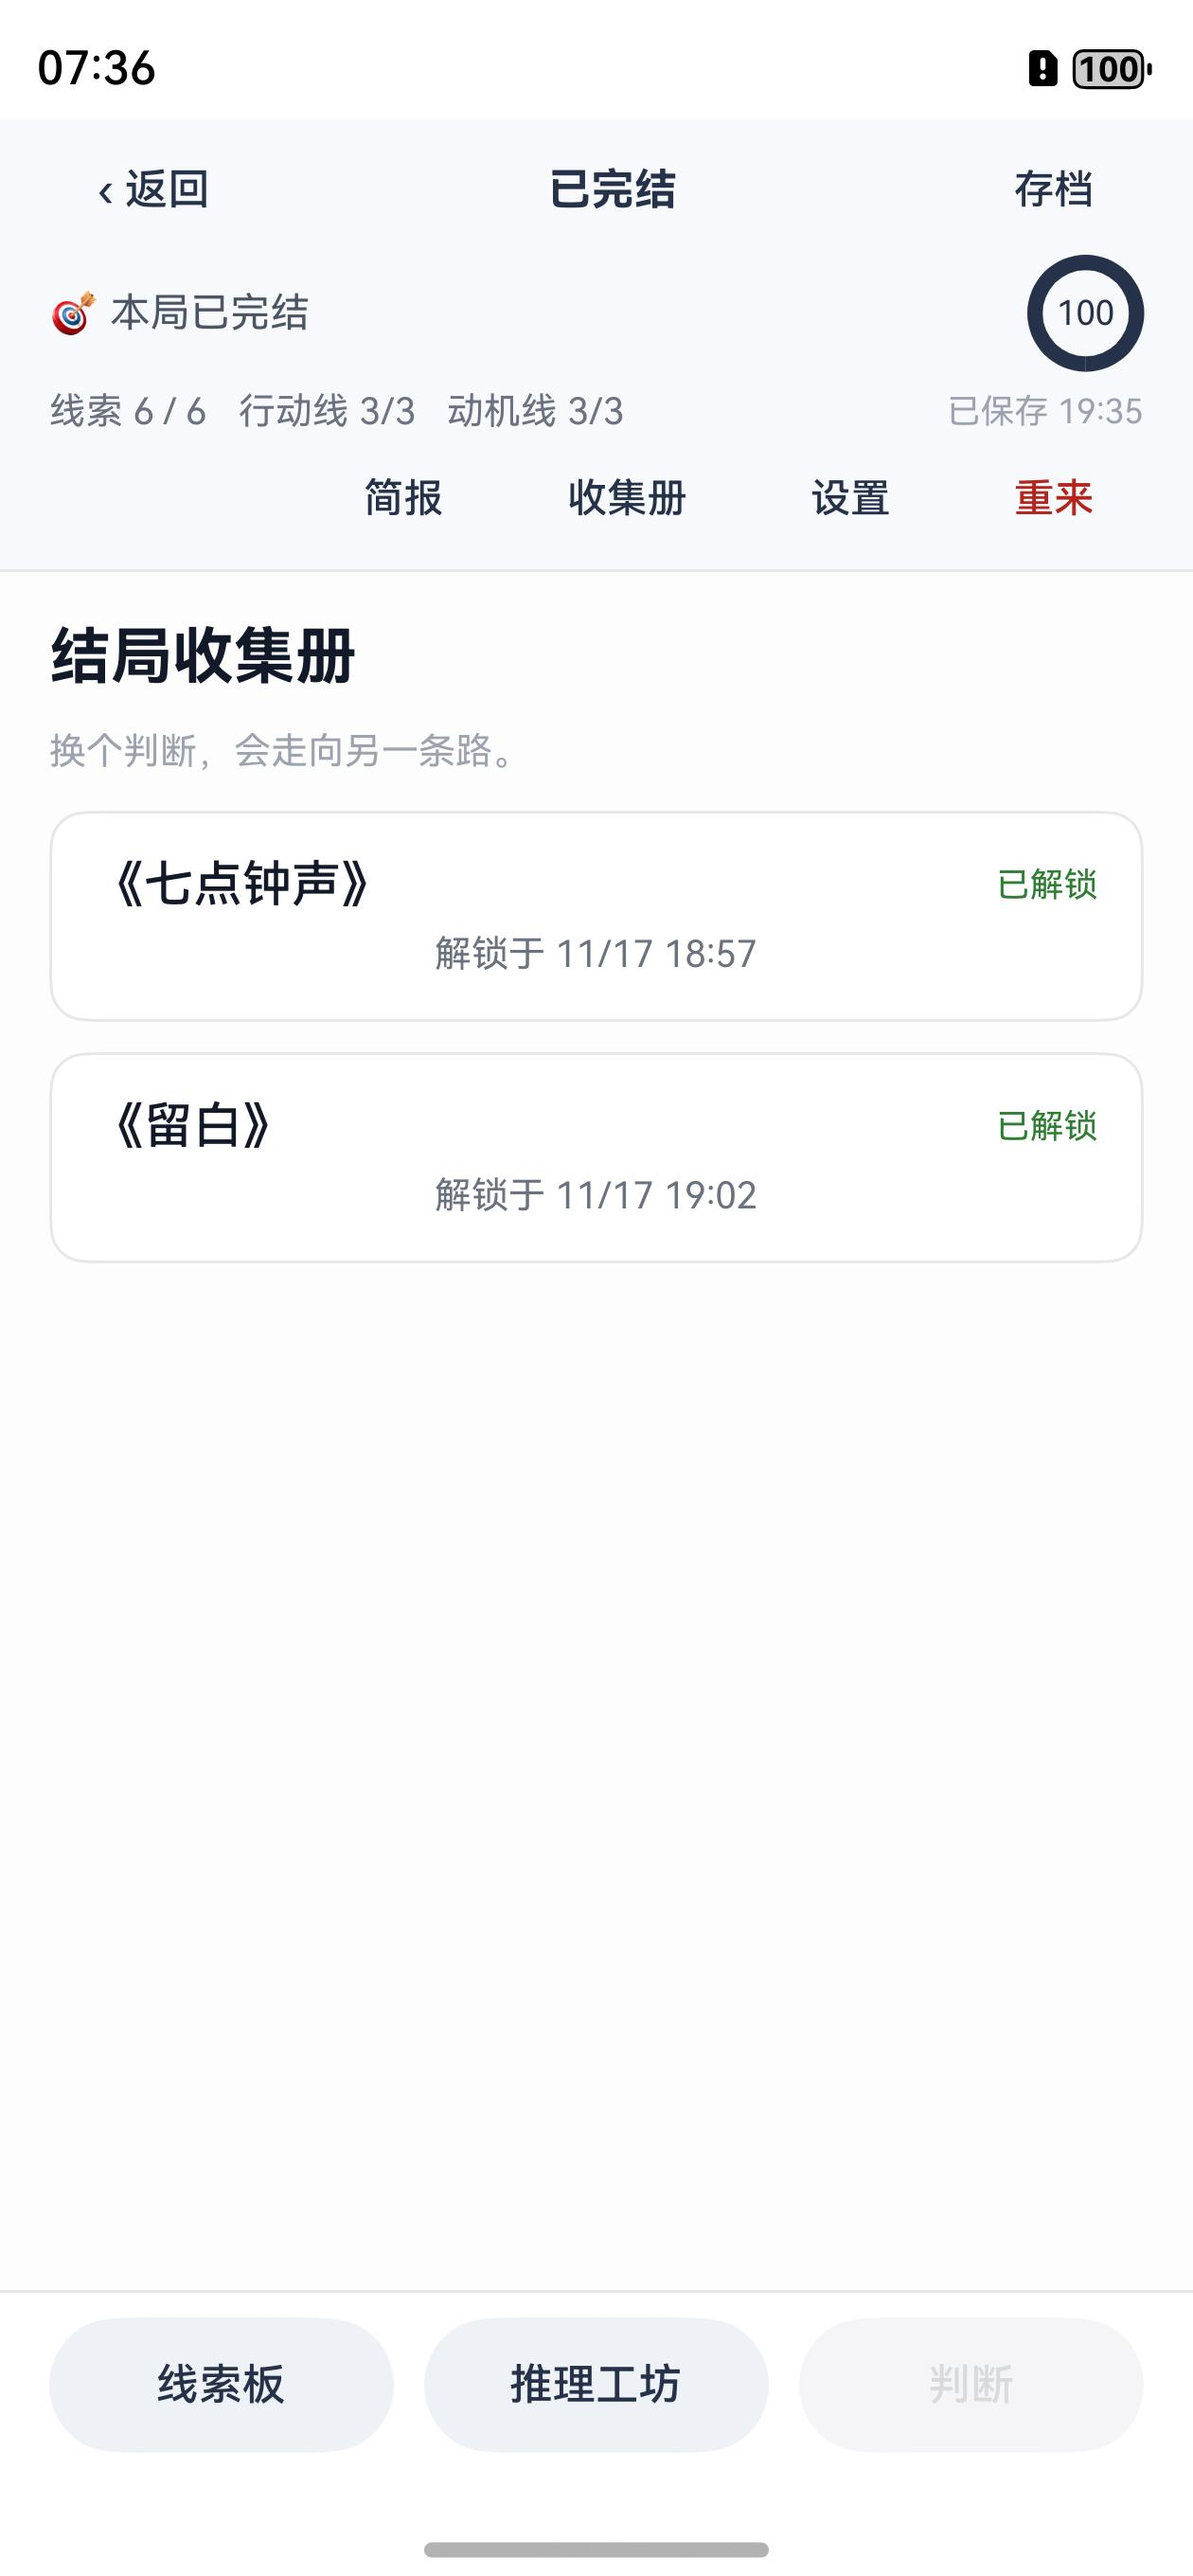
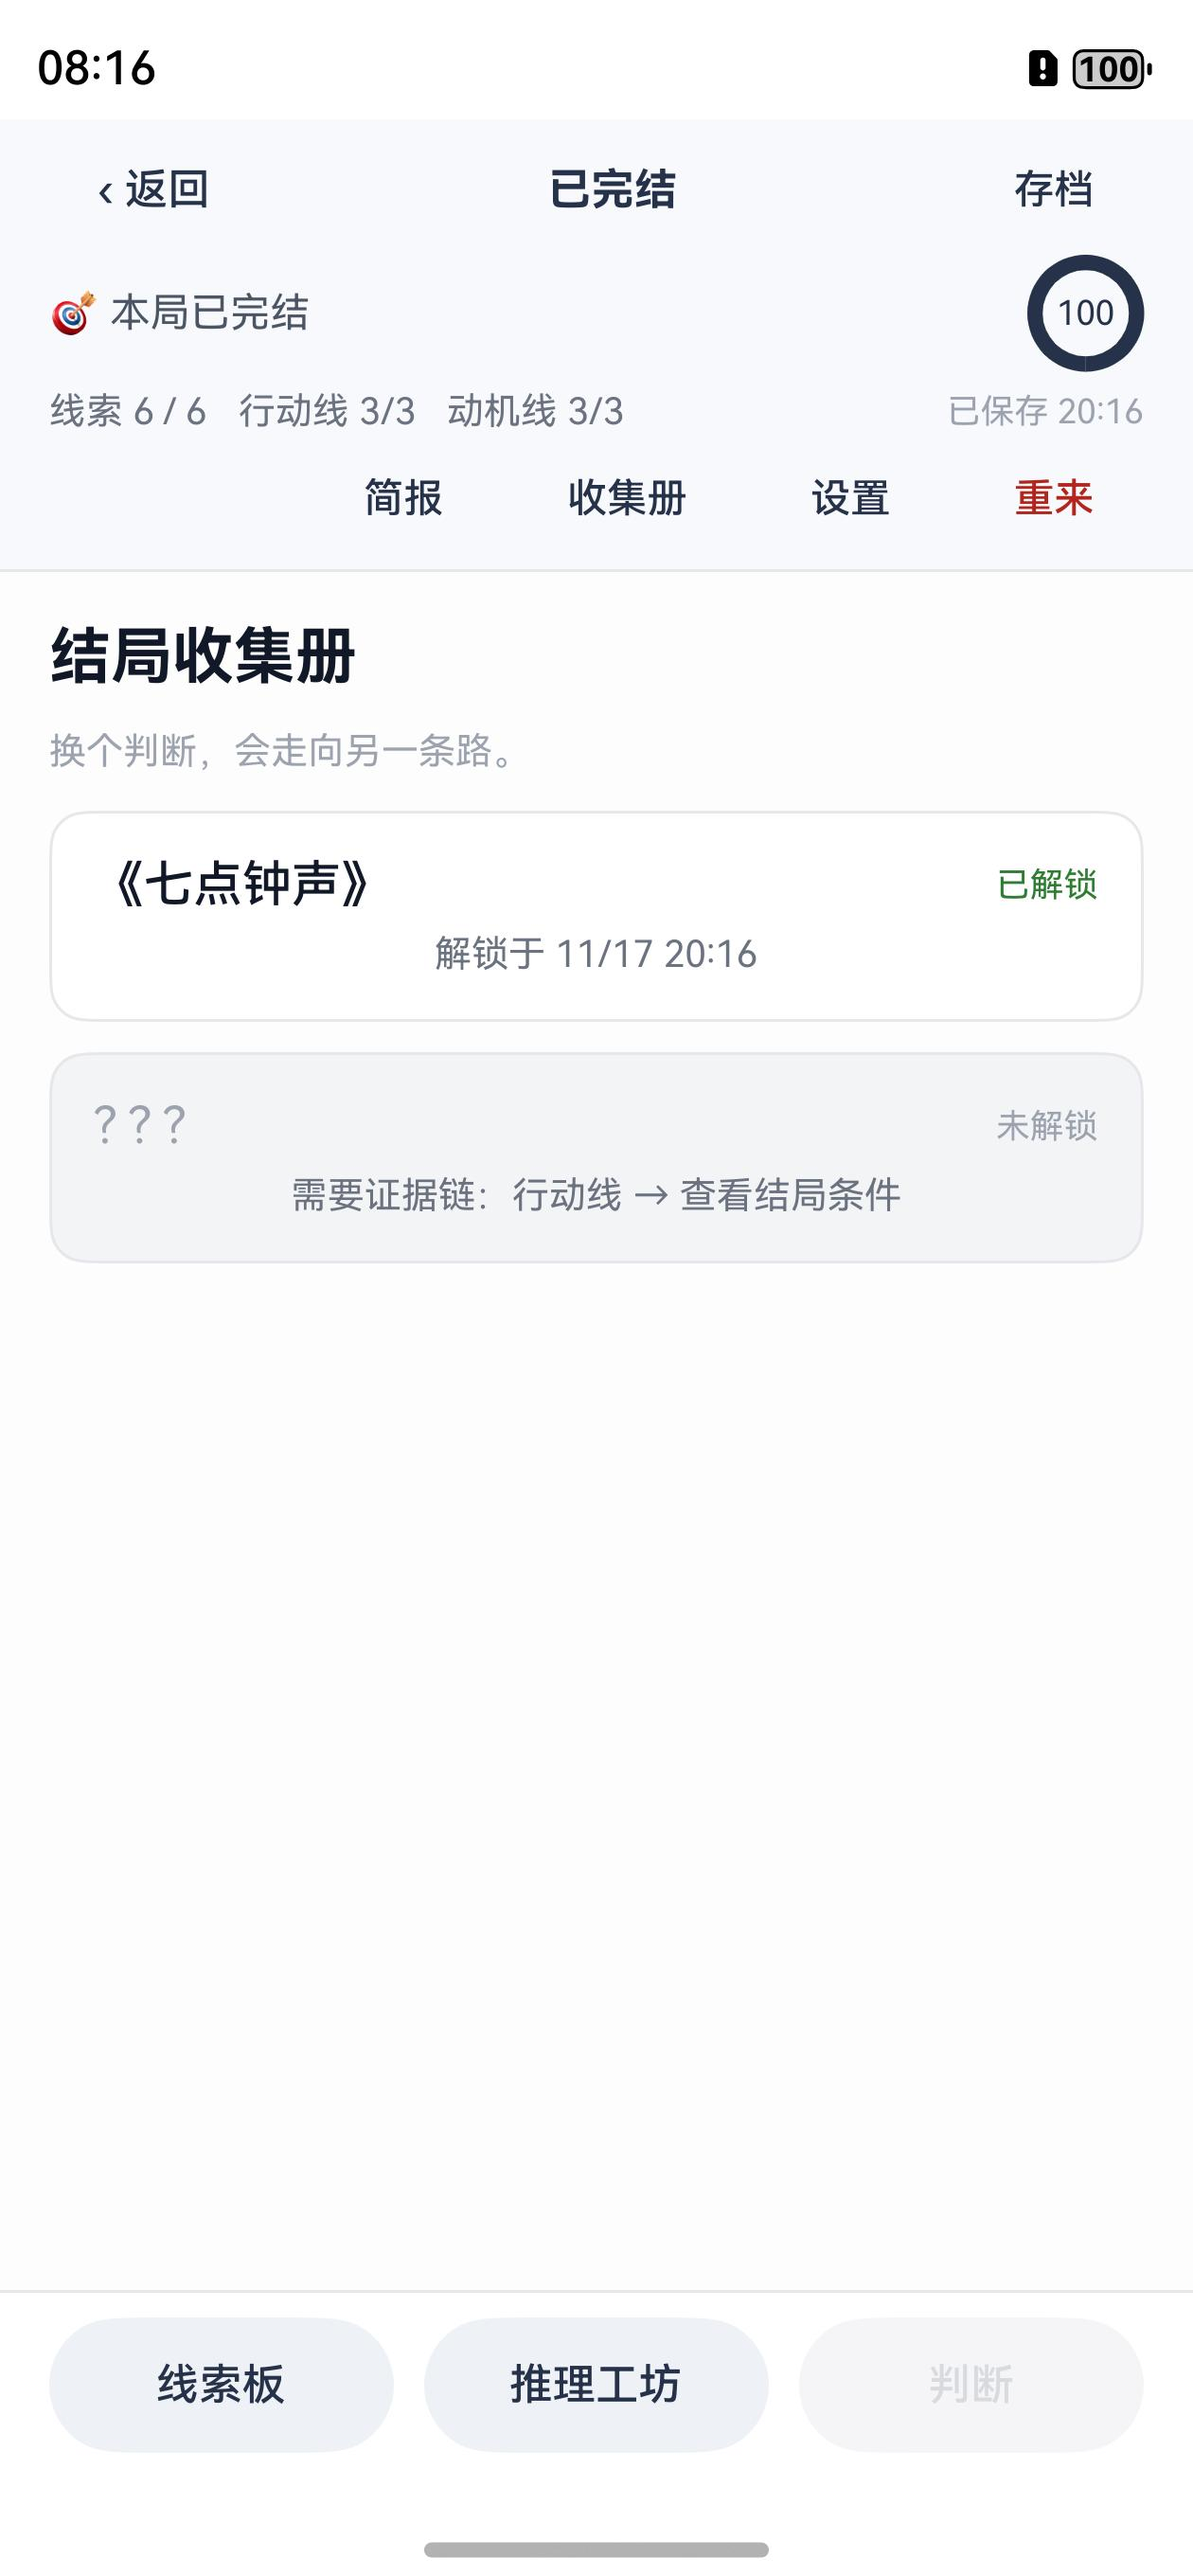
fix(harmony): Hypium 22 个用例真跑通（TestAbility 宿主 + describe 命名 + runner 取 delegator 时机）
- 根因1: describe 名只能 字母/数字/下划线/点 且首字符为字母，Fixtures(AC-18) 被判非法 -> Fixtures.AC18
- 根因2: Hypium 报告链路 delegator.print() 需要已启动的 UIAbility 作宿主，否则 Promise 不 resolve，
  Run 窗口永远停在『正在运行测试…』/ aa test 只报 Timeout
  -> 新增 ets/testability/TestAbility.ets 并在 ohosTest module.json5 声明（含 icon/color/string 资源），
     runner 改为 startAbility(TestAbility)，不再直接调 Hypium
- runner 里 getAbilityDelegator() 必须放在 onRun()，模块顶层会拿到 null（Cannot read property startAbility of null）
- 实测: aa test -> Tests run: 22, Failure: 0, Error: 0, Pass: 22（日志 docs/evidence/hypium-aa-test.log）
- 文档: 04 的 0.1.2 重写为真因+修法；TestReport 增补缺陷与结论；PROGRESS 增 3.7

diff --git a/docs/04-首轮编译绿检查单.md b/docs/04-首轮编译绿检查单.md
@@ -69,19 +69,52 @@ RESULT: PASS
 这一步同时**排除**了之前担心的几个 ArkTS 风险点：`JSON.parse(...) as CaseFile` 断言、
 `TextDecoder.create(...).decodeToString(...)`、`Map` 构造、生成物里的大量对象字面量、Hypium 导入——全部编译通过。
 
-尚未验证的只剩"**执行**"：用例跑在设备/模拟器上，需要①签名（DevEco 登录后 Automatically generate signature）
-②一台设备（模拟器 `127.0.0.1:5555` 已在线；未签名 HAP 可直接 `hdc install`，但 Hypium 的 spec 推进仍要在 IDE 里点 Run）。
+**执行**也已跑通：设备是 DevEco 模拟器 `127.0.0.1:5555`，未签名 HAP 直接 `hdc install`，
+`aa test` 与 IDE 里点 Run 都是 22/22（踩坑与修法见 0.1.2）。
 
-### 0.1.2 模拟器实测：编译过了，执行还没通（2026-11-16，DevEco 模拟器 API 17）
+### 0.1.2 模拟器实测：22 个用例已真跑通（2026-11-17 定位并修复）
 
-| 尝试 | 结果 |
+2026-11-16 的记录是「编译过、执行卡住」，当时的四个尝试与结论如下，**留作对照**：
+
+| 尝试 | 当时结果 |
 | --- | --- |
-| `hdc install` 未签名 ohosTest HAP | ✅ 成功（模拟器不校验签名，这点比真机省事） |
-| `aa start` 直接拉起测试 Ability | ❌ Hypium 报 `Cannot read property getAppContext of null`（非测试模式下没有 delegator） |
-| `aa test -s unittest OpenHarmonyTestRunner` | ❌ 缺入口文件 → 已补 `ets/testrunner/OpenHarmonyTestRunner.ets`；补后能进入 Hypium，但**连 `expect(1+1)` 都停在 `OHOS_REPORT_STATUS: class=Smoke`，不再出现 `test=` 行** |
-| `hvigorw test`（CLI） | ❌ 走的是 DevEco GUI 的 localTest 脚手架：先要 `.test/testability/TestAbility.ets`，再要 `src/ohosTest/ets/pages/Index.ets`，且页面模板按 `src/test` 布局导入 —— 与 `ohosTest` 布局不兼容 |
+| `hdc install` 未签名 ohosTest HAP | ✅ 成功（模拟器不校验签名） |
+| `aa start` 直接拉起测试 Ability | ❌ `Cannot read property getAppContext of null`（非测试模式下没有 delegator） |
+| `aa test -s unittest OpenHarmonyTestRunner` | ❌ 能进 Hypium，但停在 `OHOS_REPORT_STATUS: class=…`，不再出现 `test=` 行 |
+| `hvigorw test`（CLI） | ❌ 走 GUI 的 localTest 脚手架，与 `ohosTest` 布局不兼容 |
 
-**结论**：编译链路已经验证；**用例执行必须在 DevEco 图形界面里点 Run**（它会在构建时生成 `.test` 脚手架并注入 UI 事件循环，Hypium 才能推进 spec）。命令行 / CI 想跑通，需要把用例改成 DevEco 的 localTest 布局（`entry/src/test`），这是一项独立改造。
+**2026-11-17 找到真因，两个都是代码问题，不是环境问题：**
+
+1. **`describe` 名非法**：`describe('Fixtures(AC-18)', …)` 被框架直接拒掉——
+   `'Fixtures(AC-18)' is an invalid describe value`，describe 值只允许字母/数字/下划线/点且以字母开头。
+   → 改成 `Fixtures.AC18`。
+2. **Hypium 没有宿主 Ability**：报告链路是 `OhReport → SysTestKit.print → delegator.print(message)`。
+   没有已启动的 UIAbility 时这个 Promise **永远不 resolve**，`suiteStart` 里第一个 `await` 就停住，
+   于是 Run 窗口一直转圈、`aa test` 只能报 `Timeout: user test is not completed`。
+   → 补 `ets/testability/TestAbility.ets`（`onCreate` 里跑 `Hypium.hypiumTest`），
+   `module.json5` 声明该 Ability（含 `$media:icon`、`$color:start_window_background`、两条 `$string:`），
+   runner 改成「取 delegator → startAbility(TestAbility)」而**不再直接调 Hypium**。
+   另外 runner 里的 `abilityDelegatorRegistry.getAbilityDelegator()` 必须放在 `onRun` 里取：
+   模块顶层会拿到 `null`，报 `Cannot read property startAbility of null`。
+
+**现在命令行也能跑，不必依赖 IDE：**
+
+```powershell
+powershell -File tools/build-harmony.ps1
+$hdc = 'D:\huawei\DevEco Studio\sdk\default\openharmony\toolchains\hdc.exe'
+& $hdc install -r harmony\entry\build\default\outputs\ohosTest\entry-ohosTest-unsigned.hap
+& $hdc shell "aa test -b com.nacl1yan.campuscase -m entry_test -s unittest OpenHarmonyTestRunner -s timeout 60000 -w 120"
+```
+
+实测输出（原始日志见 `docs/evidence/hypium-aa-test.log`）：
+
+```
+OHOS_REPORT_RESULT: stream=Tests run: 22, Failure: 0, Error: 0, Pass: 22, Ignore: 0
+TestFinished-ResultCode: 0
+TestFinished-ResultMsg: your test finished!!!
+```
+
+IDE 里 `Run 'All Tests in 'test''` 走的是同一条链路，同样 22/22。
 
 ### 0.2 鸿蒙侧的 fixture runner 是生成物
 

diff --git a/docs/TestReport.md b/docs/TestReport.md
@@ -21,6 +21,7 @@
 | 5 | `tools/sync-case.ps1 -Check` | 三处内容副本（main rawfile / ohosTest rawfile / Android assets）与 `shared/case` 哈希一致 | ✅ ACK |
 | 6 | `tools/e2e.ps1 -Scenario all` | 三条演示链路 24 项断言（需模拟器在线） | ✅ 24/24 |
 | 7 | 迁移回归（2026-11-17）：`E:\campus-case` 原地构建 + 重装 + `e2e -Scenario all` | 路径迁移后工程与玩法链路未被破坏 | ✅ 双模块 PASS + 24/24 |
+| 8 | `aa test -m entry_test -s unittest OpenHarmonyTestRunner`（2026-11-17） | Hypium 22 个 `it`（Engine 14 + Fixtures 8，覆盖 42 条 fixture） | ✅ Tests run: 22, Failure: 0, Error: 0, Pass: 22（`docs/evidence/hypium-aa-test.log`） |
 
 ---
 
@@ -85,7 +86,6 @@
 
 | 项 | 原因 | 补救 |
 | --- | --- | --- |
-| Hypium 22 个 `it` 的执行 | 命令行 `hvigorw test` 走 DevEco GUI 的 localTest 脚手架（`.test/` + `src/test` 布局），`aa test` + 自建 runner 下 Hypium 不推进 spec（已实测：连 `expect(1+1)` 都停在 `class=` 之后） | 在 DevEco 里右键 `entry/src/ohosTest/ets/test` → Run 'Tests in test'，期望 22 个全绿 |
 | Android 版 | 已按需求冻结 | 代码与规格保留在仓库，不再推进 |
 | 美术资源 / 音效 | 作业范围内未接入 | 场景为纯色 + 文字；设置项已预留开关 |
 
@@ -95,6 +95,9 @@
 
 | 缺陷 | 现象 | 根因 | 修复 |
 | --- | --- | --- | --- |
+| describe 名非法 | Run 立刻失败：`'Fixtures(AC-18)' is an invalid describe value`，通过数 0 | Hypium 的 describe 值只允许字母/数字/下划线/点，且首字符必须是字母 | 改名 `Fixtures.AC18` |
+| 用例执行卡死 | Run 窗口永远停在「正在运行测试…」，设备端停在 `OHOS_REPORT_STATUS: class=…`；`aa test` 只报 Timeout | Hypium 报告链路 `OhReport → SysTestKit.print → delegator.print()` 需要一个已启动的 UIAbility 作宿主，没有时该 Promise 永不 resolve | 新增 `ets/testability/TestAbility.ets`（`onCreate` 跑 Hypium）+ `module.json5` 声明该 Ability；runner 改为 `startAbility(TestAbility)` |
+| runner 取 delegator 时机 | 崩溃：`Cannot read property startAbility of null`（TypeError） | 模块顶层 `getAbilityDelegator()` 早于 delegator 初始化 | 移到 `onRun()` 内取，并对 null 做防御 |
 | 列表状态不刷新 | 热点点完仍显示「可调查」 | ArkUI `ForEach` 同 key 复用组件 | key 并入状态字段 |
 | API 不匹配 | 编译报 `Property 'animateTo' does not exist` | API 12 需走 `UIContext` | 改 `this.getUIContext().animateTo/showAlertDialog` |
 | 恢复丢阶段 | 冷启动退回「验证 55%」 | 流水回放无法还原 `prove:`/`enterJudge`/`finish` 这类非节点事件 | 恢复顺序改为 自动槽 → 快照 → 回放 |
@@ -106,4 +109,4 @@
 ## 5. 结论
 
 - 内容、判定、持久化、恢复、界面链路均已在真实设备环境跑通，**不是纸面推演**。
-- 唯一待补的是 Hypium 用例在 IDE 内的一次执行（12 行代码的测试本体已编译通过）。
+- Hypium 22 个 `it` 已在模拟器上真执行：`Tests run: 22, Failure: 0, Error: 0, Pass: 22`（IDE Run 与 `aa test` 两条路径同源）。

diff --git a/docs/PROGRESS.md b/docs/PROGRESS.md
@@ -101,8 +101,19 @@ DevEco 打开 `E:\校园推理galgame` 会直接弹 `Cannot Open Project: ... co
 - IDE 入口：`File → Open → E:\campus-case\harmony`（选 `harmony` 子目录，不是仓库根）
 - 文档里的旧路径已同步：`docs/04`（路径说明）、`README`（§5 提示 + §6.2 IDE 入口）、`TestReport`
 
-## 4. 今天踩过的坑（明天不用重复踩）
+### 3.7 Hypium 用例真跑通（2026-11-17 20:15）
 
+昨天记的「CLI 下 Hypium 不推进」不是环境限制，是两个代码问题：
+
+1. `describe('Fixtures(AC-18)')` 被框架判非法（只允许字母/数字/下划线/点，首字符须字母）→ 改 `Fixtures.AC18`
+2. Hypium 报告链路 `delegator.print()` 需要**已启动的 UIAbility 作宿主**，没有时 Promise 永不 resolve
+   → 新增 `ets/testability/TestAbility.ets` + `module.json5` 声明；runner 改为 `startAbility(TestAbility)`；
+   runner 里的 `getAbilityDelegator()` 还必须放进 `onRun()`（模块顶层拿到 null）
+
+结果：`aa test` 与 IDE Run 都是 **22/22**
+（`Tests run: 22, Failure: 0, Error: 0, Pass: 22`，日志 `docs/evidence/hypium-aa-test.log`）。
+
+## 4. 今天踩过的坑（明天不用重复踩）
 | 坑 | 结论 |
 | --- | --- |
 | hvigor / DevEco 拒绝中文路径 | 仓库已迁到 `E:\campus-case`；`build-harmony.ps1` **原地构建**，只有非 ASCII 路径才自动镜像到 `%LOCALAPPDATA%\campus-case-build` |
